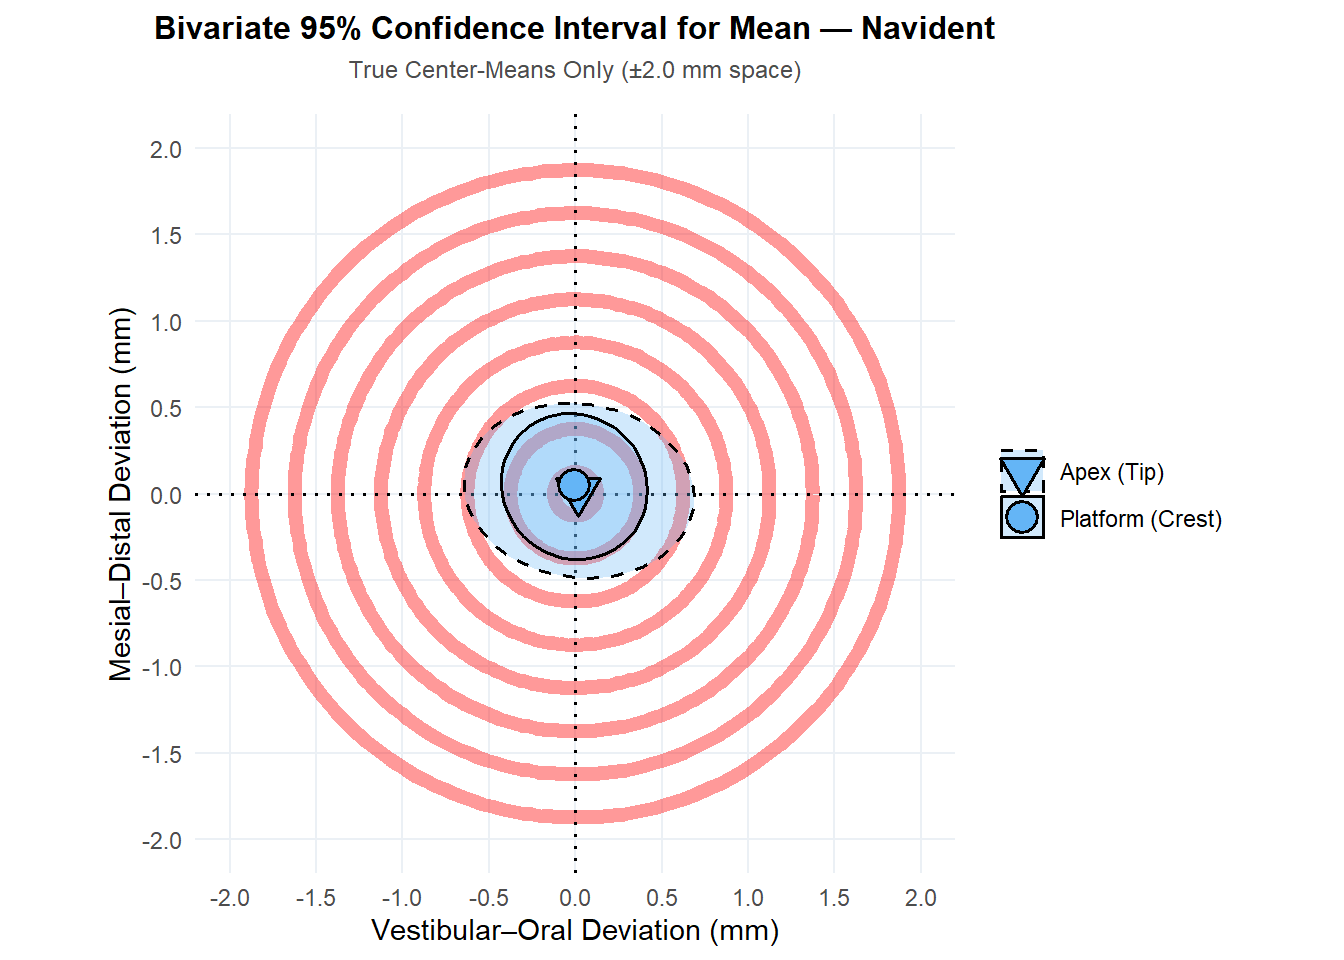
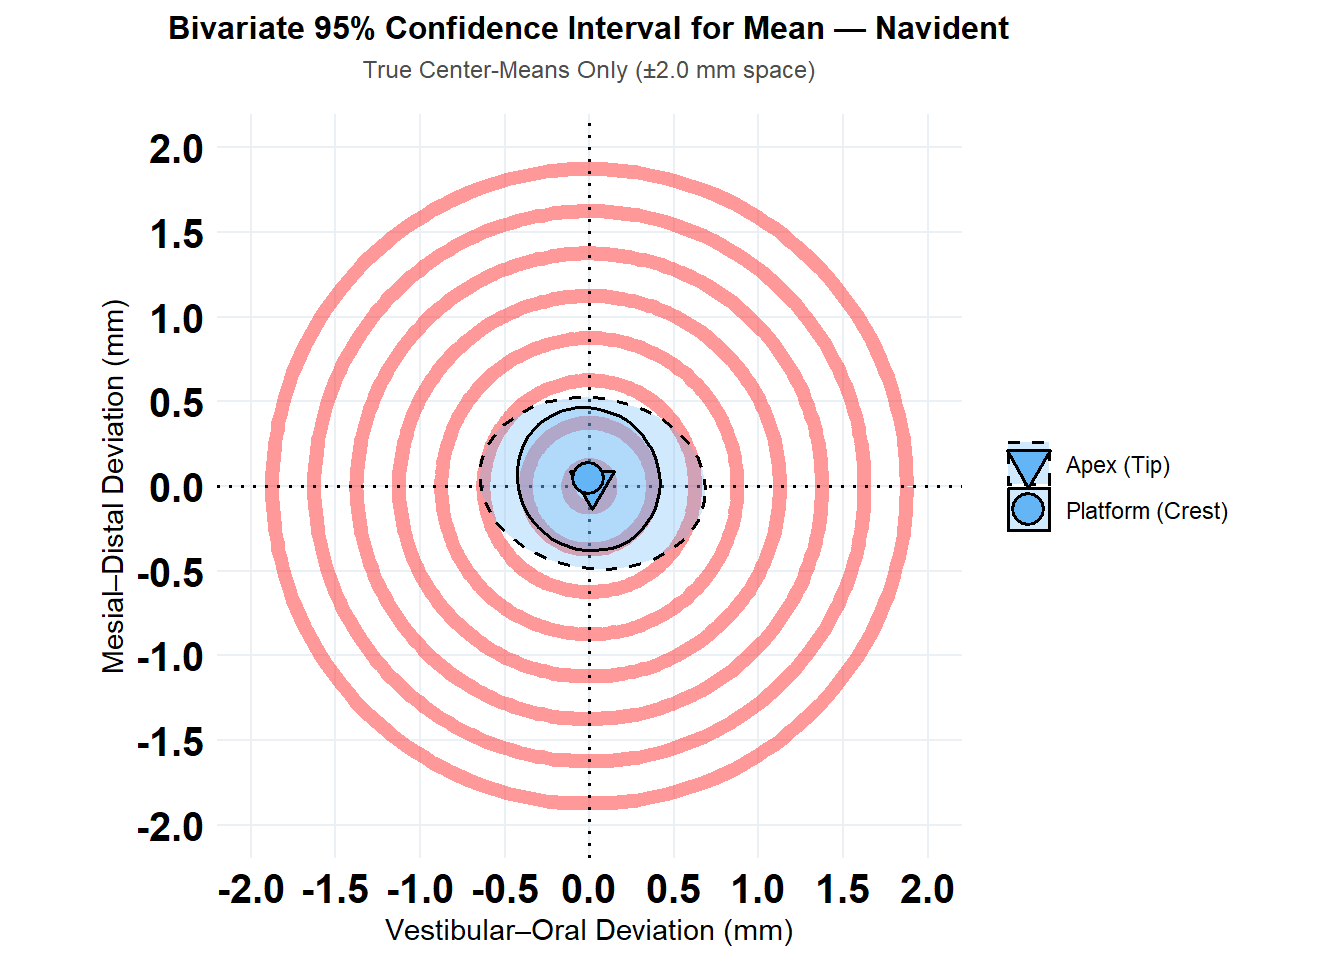
7/7/2026

diff --git a/docs/2026_0604_Arndt.html b/docs/2026_0604_Arndt.html
@@ -551,15 +551,15 @@ project makes it easier to run your code on other machines.</p>
 <div class="panel panel-default">
 <div class="panel-heading">
 <p class="panel-title">
-<a data-toggle="collapse" data-parent="#workflowr-checks" href="#strongRepositoryversionstrongahrefhttpsgithubcomhan16Collaborationstree10f1dbf4ef0765518d789ee79656959a1283892atargetblank10f1dbfa">
+<a data-toggle="collapse" data-parent="#workflowr-checks" href="#strongRepositoryversionstrongahrefhttpsgithubcomhan16Collaborationstree1fa70552a15870b415479bfcb5e1f84a18000336targetblank1fa7055a">
 <span class="glyphicon glyphicon-ok text-success"
 aria-hidden="true"></span> <strong>Repository version:</strong>
-<a href="https://github.com/han16/Collaborations/tree/10f1dbf4ef0765518d789ee79656959a1283892a" target="_blank">10f1dbf</a>
+<a href="https://github.com/han16/Collaborations/tree/1fa70552a15870b415479bfcb5e1f84a18000336" target="_blank">1fa7055</a>
 </a>
 </p>
 </div>
 <div
[2 lines of base64/hex data omitted]
 class="panel-collapse collapse">
 <div class="panel-body">
 <p>
@@ -569,7 +569,7 @@ reproducibility.
 </p>
 <p>
 The results in this page were generated with repository version
-<a href="https://github.com/han16/Collaborations/tree/10f1dbf4ef0765518d789ee79656959a1283892a" target="_blank">10f1dbf</a>.
+<a href="https://github.com/han16/Collaborations/tree/1fa70552a15870b415479bfcb5e1f84a18000336" target="_blank">1fa7055</a>.
 See the <em>Past versions</em> tab to see a history of the changes made
 to the R Markdown and HTML files.
 </p>
@@ -635,6 +635,40 @@ Message
 </tr>
 </thead>
 <tbody>
+<tr>
+<td>
+Rmd
+</td>
+<td>
+<a href="https://github.com/han16/Collaborations/blob/1fa70552a15870b415479bfcb5e1f84a18000336/analysis/2026_0604_Arndt.Rmd" target="_blank">1fa7055</a>
+</td>
+<td>
+han
+</td>
+<td>
+2026-07-07
+</td>
+<td>
+7/7/2026
+</td>
+</tr>
+<tr>
+<td>
+html
+</td>
+<td>
+<a href="https://rawcdn.githack.com/han16/Collaborations/1fa70552a15870b415479bfcb5e1f84a18000336/docs/2026_0604_Arndt.html" target="_blank">1fa7055</a>
+</td>
+<td>
+han
+</td>
+<td>
+2026-07-07
+</td>
+<td>
+7/7/2026
+</td>
+</tr>
 <tr>
 <td>
 Rmd
@@ -1297,7 +1331,9 @@ for (current_wf in unique_workflows) {
       panel.grid.major = element_line(color = &quot;#EBF0F5&quot;, linewidth = 0.4),
       panel.grid.minor = element_blank(),
       legend.title = element_blank(),
-      legend.position = &quot;right&quot;
+      legend.position = &quot;right&quot;, 
+      axis.text = element_text(size = 15, color = &quot;black&quot;, face = &quot;bold&quot;)
+      
     )
 }</code></pre>
 <ul>
@@ -1331,6 +1367,17 @@ Date
 </tr>
 </thead>
 <tbody>
+<tr>
+<td>
+<a href="https://github.com/han16/Collaborations/blob/1fa70552a15870b415479bfcb5e1f84a18000336/docs/figure/2026_0604_Arndt.Rmd/unnamed-chunk-12-1.png" target="_blank">1fa7055</a>
+</td>
+<td>
+han
+</td>
+<td>
+2026-07-07
+</td>
+</tr>
 <tr>
 <td>
 <a href="https://github.com/han16/Collaborations/blob/10f1dbf4ef0765518d789ee79656959a1283892a/docs/figure/2026_0604_Arndt.Rmd/unnamed-chunk-12-1.png" target="_blank">10f1dbf</a>
@@ -1372,6 +1419,17 @@ Date
 <tbody>
 <tr>
 <td>
+<a href="https://github.com/han16/Collaborations/blob/1fa70552a15870b415479bfcb5e1f84a18000336/docs/figure/2026_0604_Arndt.Rmd/unnamed-chunk-12-2.png" target="_blank">1fa7055</a>
+</td>
+<td>
+han
+</td>
+<td>
+2026-07-07
+</td>
+</tr>
+<tr>
+<td>
 <a href="https://github.com/han16/Collaborations/blob/10f1dbf4ef0765518d789ee79656959a1283892a/docs/figure/2026_0604_Arndt.Rmd/unnamed-chunk-12-2.png" target="_blank">10f1dbf</a>
 </td>
 <td>
@@ -1409,6 +1467,17 @@ Date
 </tr>
 </thead>
 <tbody>
+<tr>
+<td>
+<a href="https://github.com/han16/Collaborations/blob/1fa70552a15870b415479bfcb5e1f84a18000336/docs/figure/2026_0604_Arndt.Rmd/unnamed-chunk-12-3.png" target="_blank">1fa7055</a>
+</td>
+<td>
+han
+</td>
+<td>
+2026-07-07
+</td>
+</tr>
 <tr>
 <td>
 <a href="https://github.com/han16/Collaborations/blob/10f1dbf4ef0765518d789ee79656959a1283892a/docs/figure/2026_0604_Arndt.Rmd/unnamed-chunk-12-3.png" target="_blank">10f1dbf</a>
